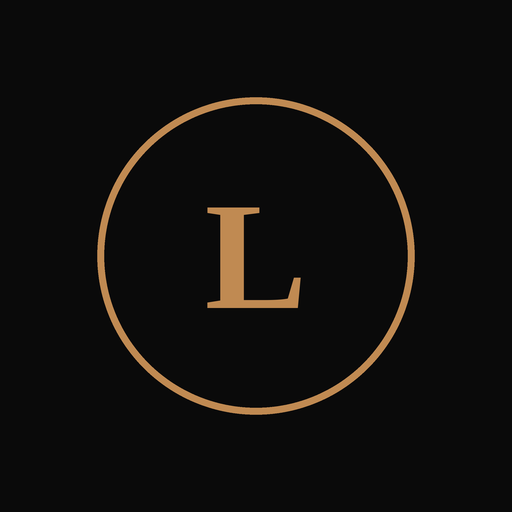
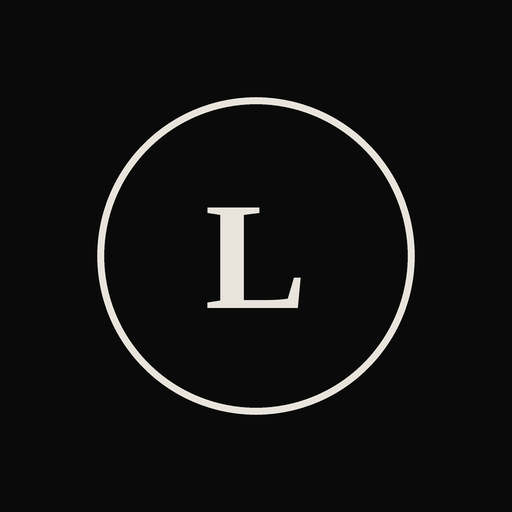
Кнопки «жидкое стекло» вместо дерева, монохромная палитра
Claude-Session: https://claude.ai/code/session_018dHtcwjs8ePayddAqgs9cp

Changed region(s): [[0.1875, 0.1875, 0.8125, 0.8125], [0.4062, 0.4062, 0.5938, 0.625]]

diff --git a/index.html b/index.html
@@ -110,6 +110,16 @@ h3.cat{font-size:24px;margin:26px 0 12px;color:var(--beige)}h3.cat:first-of-type
 .cphoto{aspect-ratio:4/3;border-radius:var(--r);overflow:hidden;position:relative;border:1px solid var(--line)}.cphoto img{position:absolute;inset:0}
 .tex .btn:not(.ghost),.tex .bar i{background:var(--tex) center/cover;color:#1b130b;text-shadow:0 1px 0 rgba(255,255,255,.25)}
 .tex .logo{border-width:2px}
+/* кнопки «жидкое стекло» (buttons: "glass" в config.js) */
+.glass .btn{position:relative;overflow:hidden;color:#fff;font-weight:600;text-shadow:0 1px 1px rgba(0,0,0,.35);
+ background:linear-gradient(180deg,rgba(255,255,255,.36),rgba(255,255,255,.14)),color-mix(in srgb,var(--gold) 16%,transparent);
+ border:1px solid rgba(255,255,255,.26);backdrop-filter:blur(14px) saturate(180%);-webkit-backdrop-filter:blur(14px) saturate(180%);
+ box-shadow:inset 0 1px 0 rgba(255,255,255,.55),inset 0 -1px 3px rgba(0,0,0,.3),0 8px 22px rgba(0,0,0,.35);transition:transform .15s,box-shadow .2s,background .2s}
+.glass .btn::after{content:'';position:absolute;inset:0;border-radius:inherit;pointer-events:none;background:radial-gradient(90% 120% at 15% -40%,rgba(255,255,255,.35),transparent 55%)}
+.glass .btn:hover{box-shadow:inset 0 1px 0 rgba(255,255,255,.65),inset 0 -1px 3px rgba(0,0,0,.3),0 10px 26px rgba(0,0,0,.45)}
+.glass .btn.ghost{background:linear-gradient(180deg,rgba(255,255,255,.10),rgba(255,255,255,.02));border-color:rgba(255,255,255,.14);box-shadow:inset 0 1px 0 rgba(255,255,255,.22),0 6px 16px rgba(0,0,0,.25)}
+.glass .btn:disabled{opacity:.35}
+.glass .bar i,.glass .gbar i{background:linear-gradient(180deg,rgba(255,255,255,.85),rgba(255,255,255,.45));box-shadow:0 0 8px rgba(255,255,255,.25)}
 .galw{position:relative}
 .gnav{position:absolute;top:50%;transform:translateY(-50%);width:44px;height:44px;border-radius:50%;border:1px solid rgba(255,255,255,.18);background:rgba(10,10,10,.65);backdrop-filter:blur(8px);-webkit-backdrop-filter:blur(8px);color:#fff;font-size:26px;line-height:1;cursor:pointer;z-index:2;display:grid;place-items:center;transition:opacity .2s}
 .gnav.prev{left:8px}.gnav.next{right:8px}.gnav:disabled{opacity:0;pointer-events:none}
@@ -285,6 +295,7 @@ if(col.text)R.setProperty('--text',col.text);
 if(col.muted)R.setProperty('--mut',col.muted);
 if(col.card)R.setProperty('--card',col.card);
 if(col.line)R.setProperty('--line',col.line);
+if(C.buttons==='glass')document.body.classList.add('glass');
 if(col.texture){R.setProperty('--tex',`url('${col.texture}')`);document.body.classList.add('tex')}
 const F=C.fonts||{};
 if(F.display){const l=document.createElement('link');l.rel='stylesheet';l.href='https://fonts.googleapis.com/css2?family='+encodeURIComponent(F.display)+':wght@400;500;600&display=swap';document.head.appendChild(l);R.setProperty('--display',`'${F.display}',${F.fallback||'system-ui,sans-serif'}`)}

diff --git a/sw.js b/sw.js
@@ -1,6 +1,6 @@
 // Сгенерировано tools/build.py — не редактируйте вручную.
-const V='v-ea7fda6213';
-const SHELL=['./','index.html','config.js','manifest.webmanifest','icons/icon-192.png','icons/icon-512.png','icons/apple-touch-icon.png','images/beard.jpg','images/clipper-beard.jpg','images/clipper.jpg','images/cut-beard.jpg','images/cut.jpg','images/facade.jpg','images/g-camo.jpg','images/g-clay.jpg','images/g-crop.jpg','images/g-kid.jpg','images/g-lounge.jpg','images/g-mask.jpg','images/g-street.jpg','images/g-teen.jpg','images/hero.jpg','images/kids.jpg','images/wood.jpg'];
+const V='v-c024a54e90';
+const SHELL=['./','index.html','config.js','manifest.webmanifest','icons/icon-192.png','icons/icon-512.png','icons/apple-touch-icon.png','images/beard.jpg','images/clipper-beard.jpg','images/clipper.jpg','images/cut-beard.jpg','images/cut.jpg','images/facade.jpg','images/g-camo.jpg','images/g-clay.jpg','images/g-crop.jpg','images/g-kid.jpg','images/g-lounge.jpg','images/g-mask.jpg','images/g-street.jpg','images/g-teen.jpg','images/hero.jpg','images/kids.jpg'];
 self.addEventListener('install',e=>{e.waitUntil(caches.open(V).then(c=>c.addAll(SHELL)).then(()=>self.skipWaiting()))});
 self.addEventListener('activate',e=>{e.waitUntil(caches.keys().then(k=>Promise.all(k.filter(x=>x!==V).map(x=>caches.delete(x)))).then(()=>self.clients.claim()))});
 self.addEventListener('fetch',e=>{

diff --git a/config.js b/config.js
@@ -31,9 +31,8 @@ window.BH_CONFIG = {
     "line": "#2a2a2a",
     "text": "#f4f4f2",
     "muted": "#9d9d9d",
-    "accent": "#c08a52",
-    "accentLight": "#f4f4f2",
-    "texture": "images/wood.jpg"
+    "accent": "#e8e4dc",
+    "accentLight": "#ffffff"
   },
   "photoStyle": "original",
   "showDuration": false,
@@ -311,5 +310,6 @@ window.BH_CONFIG = {
       "caption": "Плехановская, 19"
     }
   ],
-  "galleryTitle": "Работы и атмосфера"
+  "galleryTitle": "Работы и атмосфера",
+  "buttons": "glass"
 };
